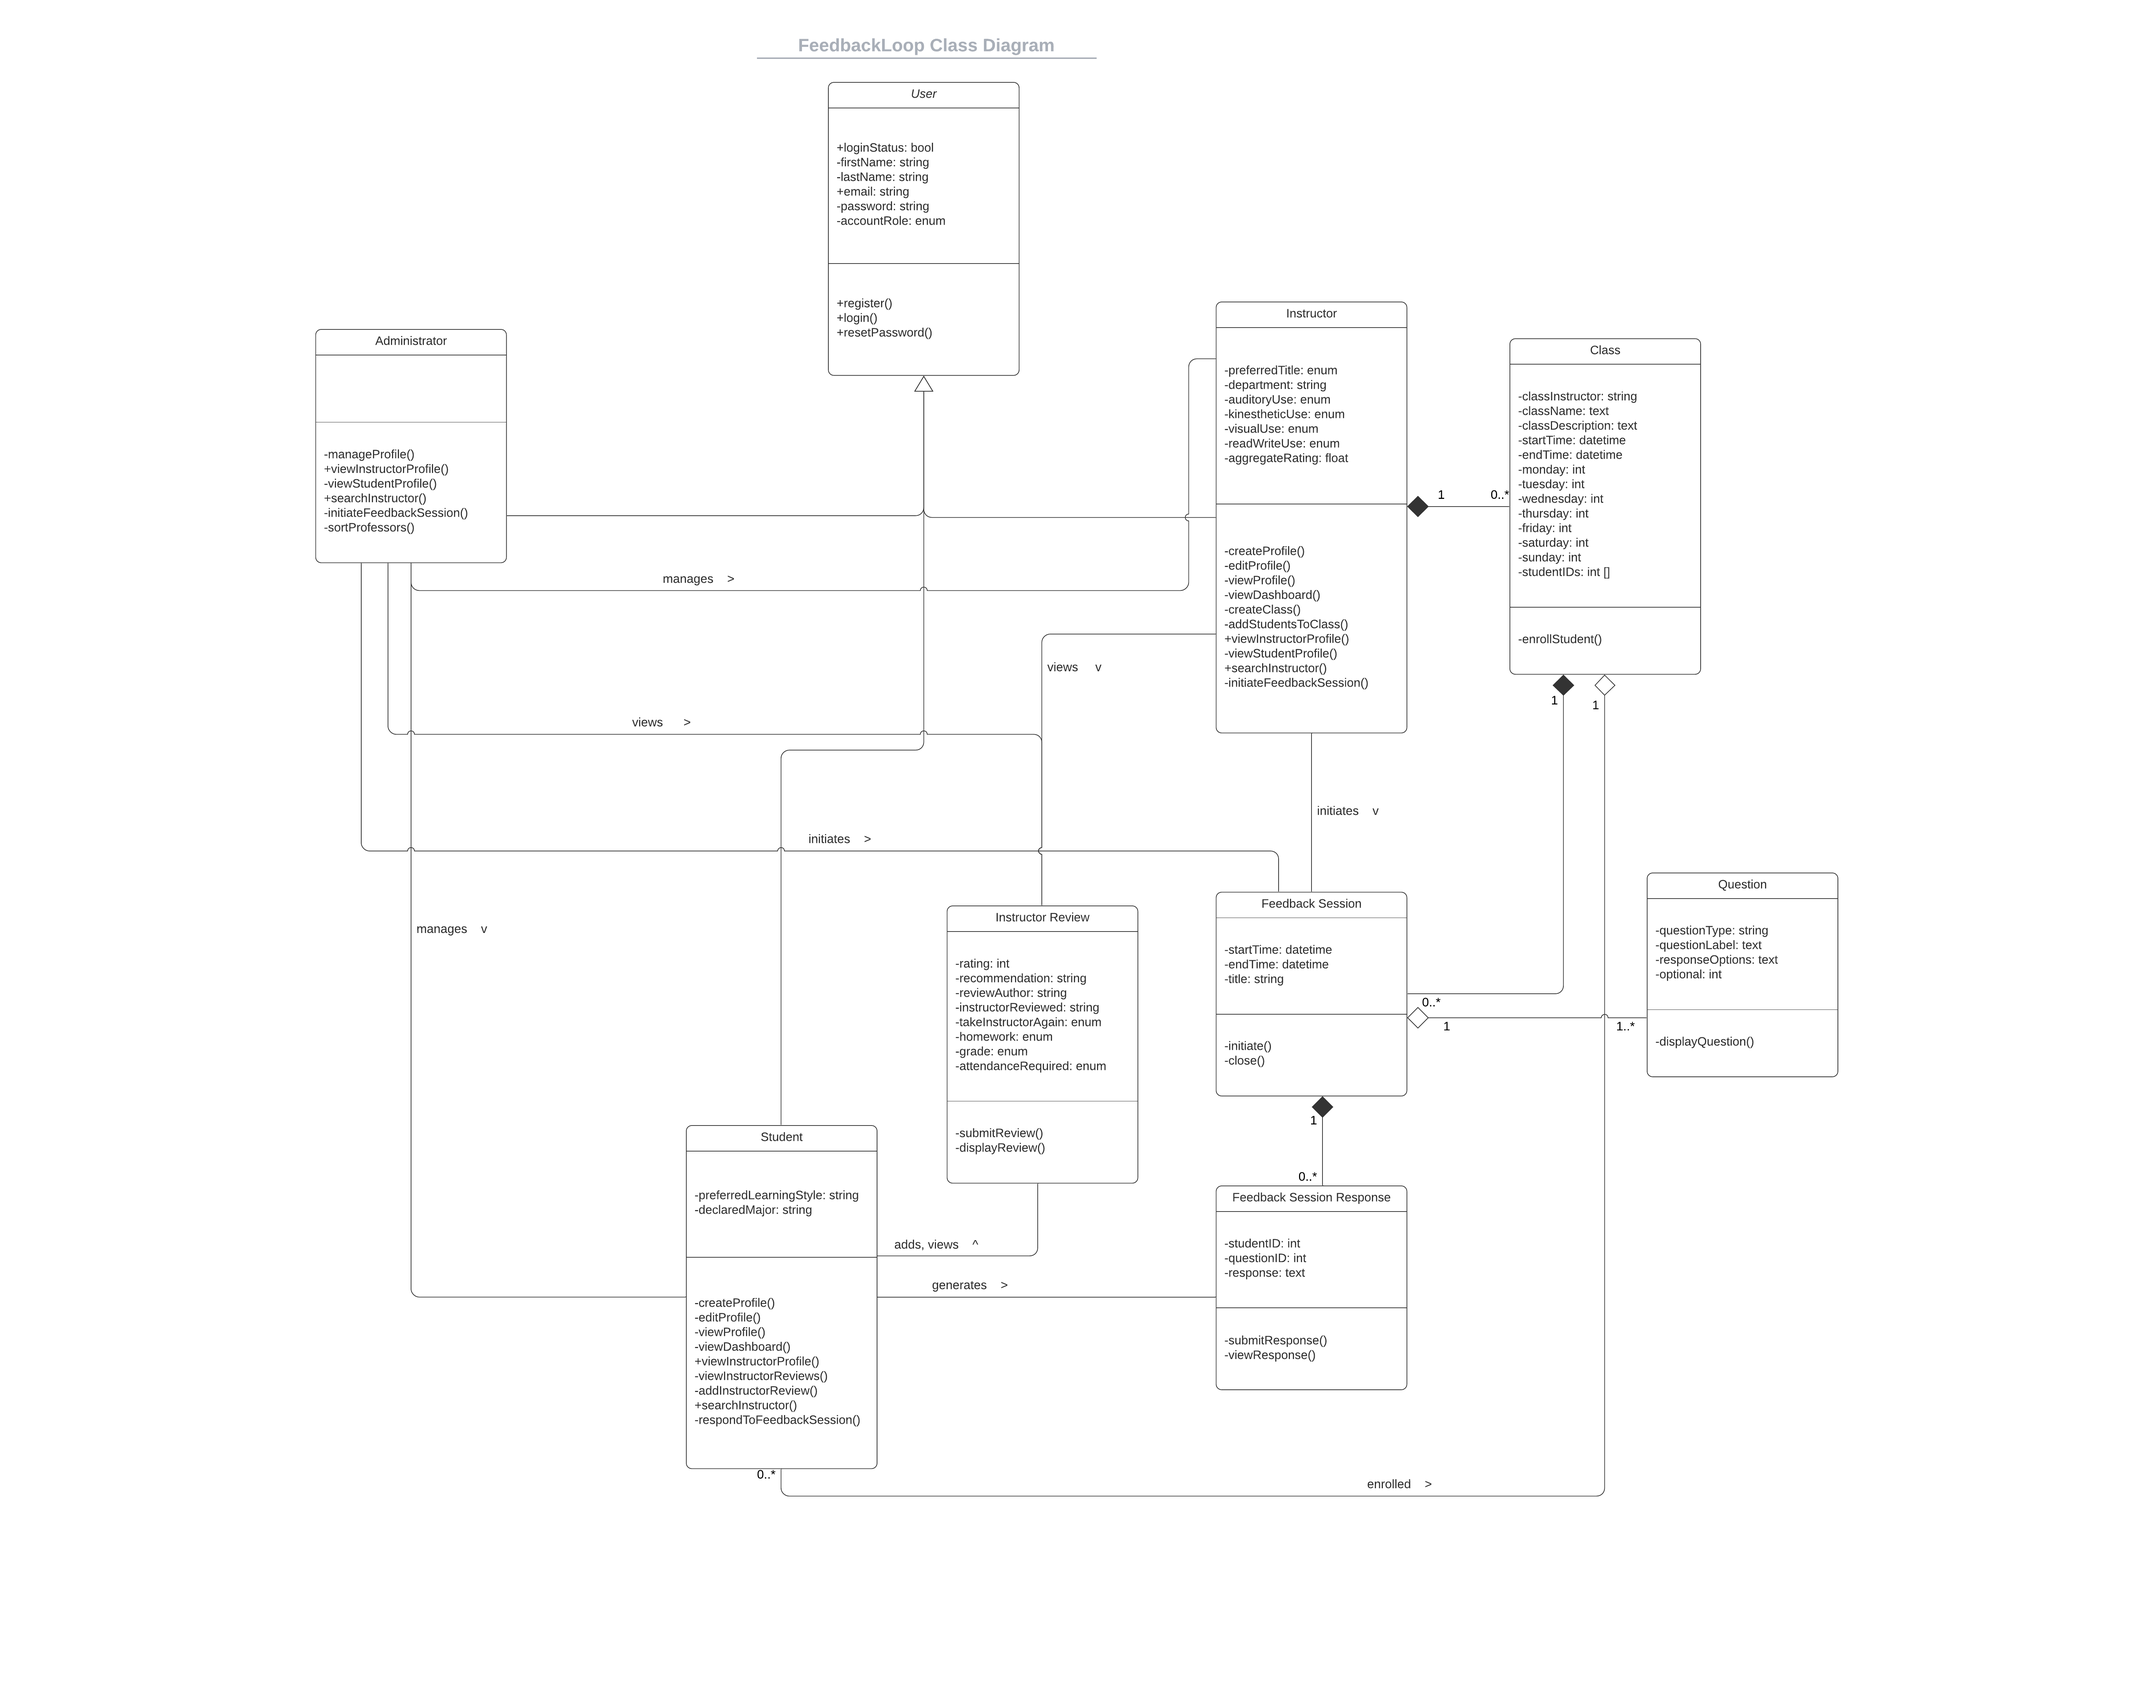
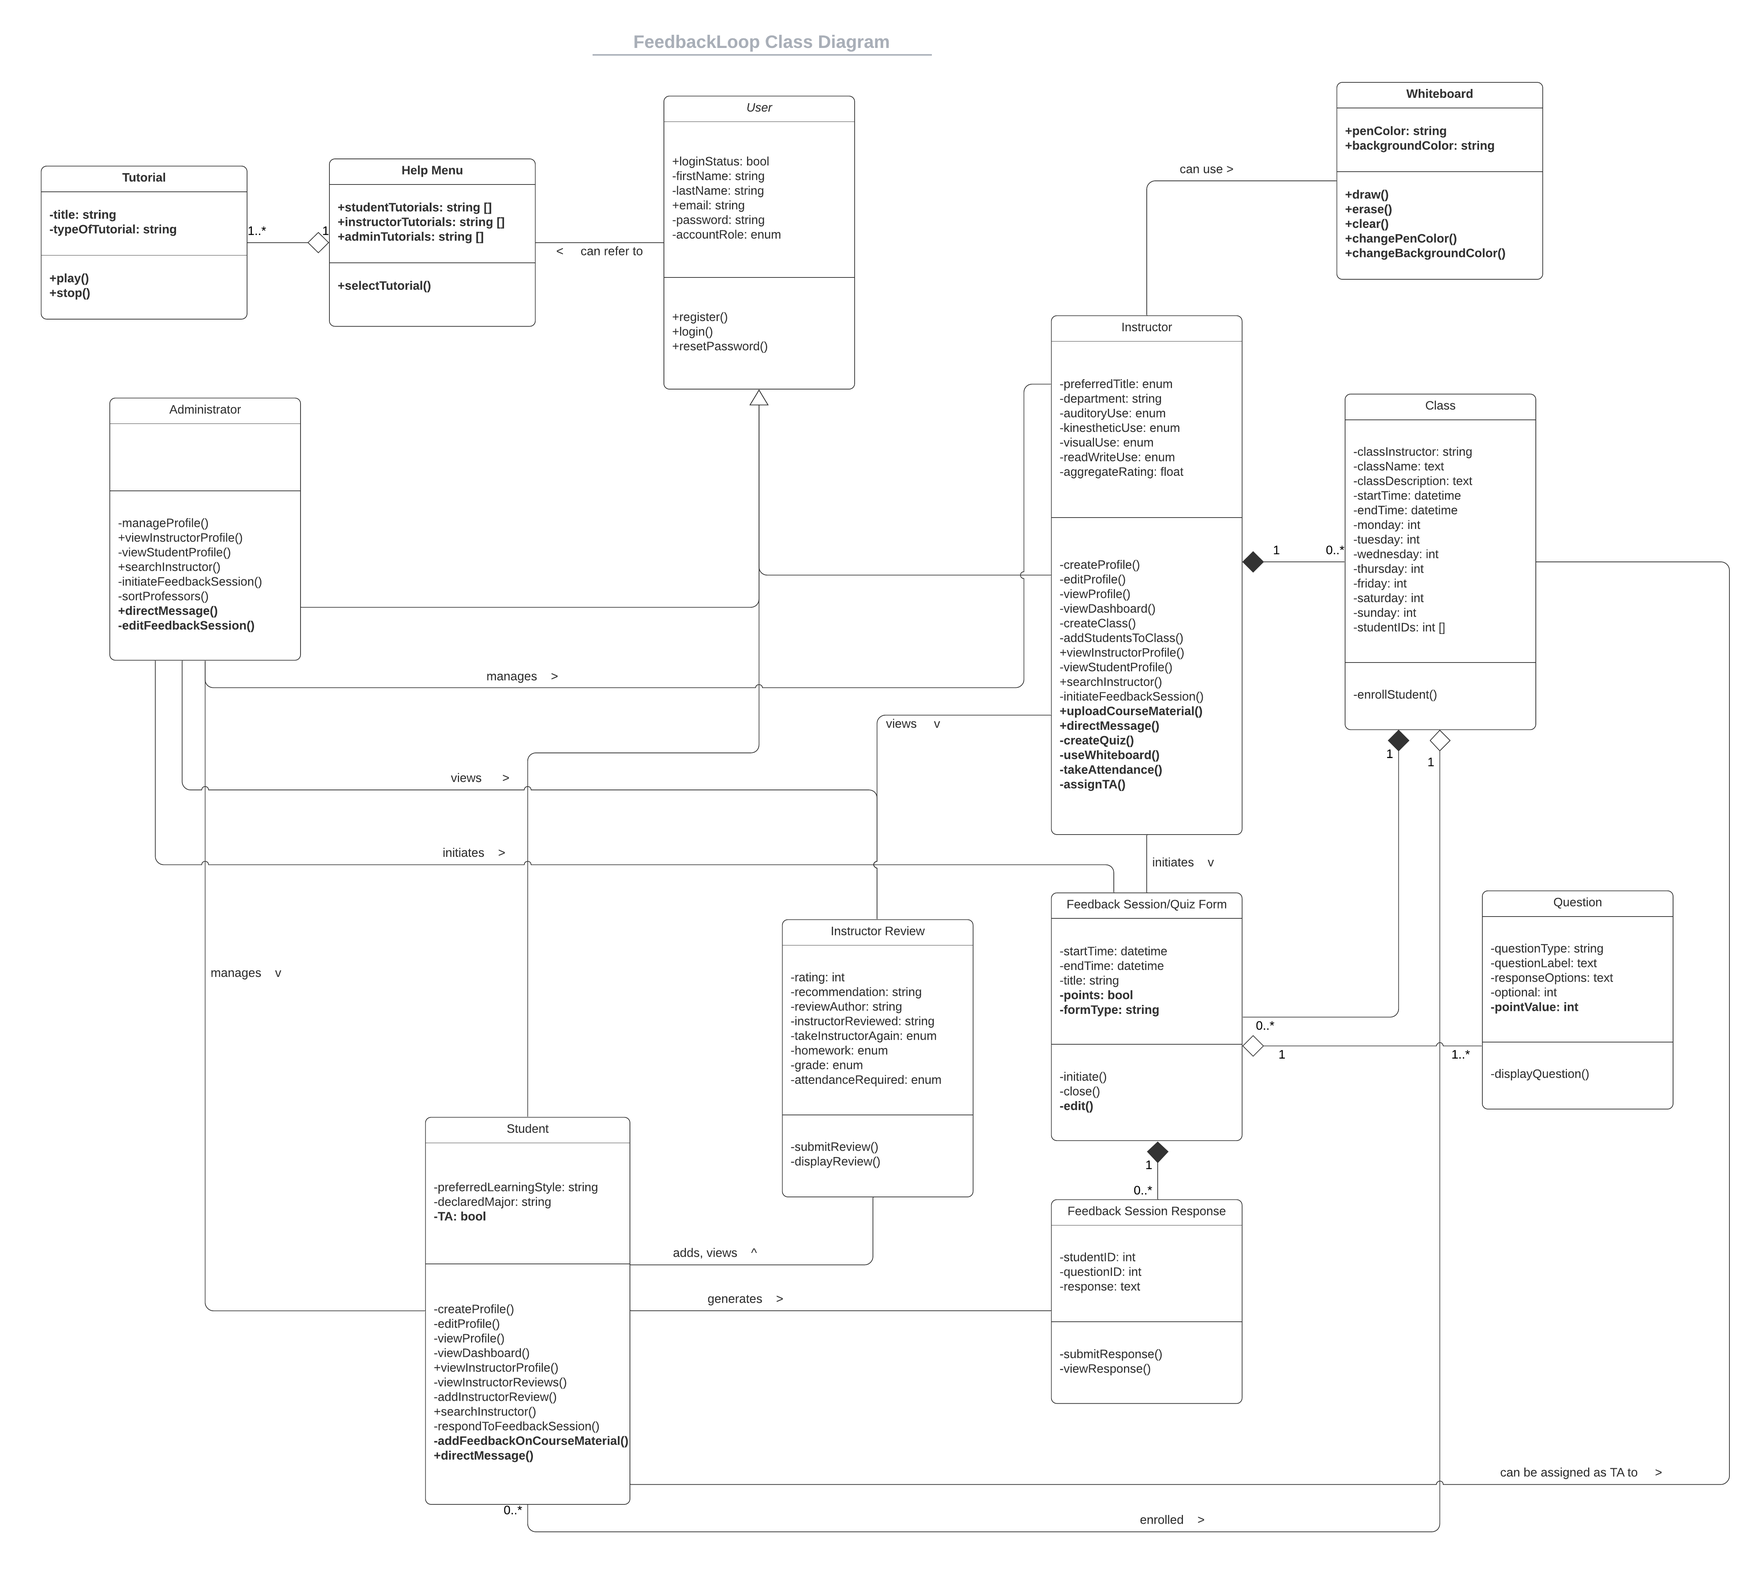
Updated Wiki
added wireframes and updated class diagram

diff --git a/Wiki.md b/Wiki.md
@@ -330,6 +330,27 @@ Admin users have the same functionality as instructor users with some additional
 ## Instructor Feedback Session Results Wireframe
 ![Instructor Feedback Session Results Wireframe](/documentation/Slide11.PNG)
 
+## Instructor Add Class Files Wireframe
+![Instructor Add Class Files Wireframe](/documentation/Slide12.PNG)
+
+## Instructor Whiteboard Wireframe
+![Instructor Whiteboard Wireframe](/documentation/Slide13.PNG)
+
+## Instructor Direct Messaging Wireframe
+![Instructor Direct Messaging Wireframe](/documentation/Slide14.PNG)
+
+## Instructor Help Menu Wireframe
+![Instructor Help Menu Wireframe](/documentation/Slide15.PNG)
+
+## Instructor Resources Page Wireframe
+![Instructor Resources Page Wireframe](/documentation/Slide16.PNG)
+
+## Instructor Course Materials Wireframe
+![Instructor Course Materials Wireframe](/documentation/Slide17.PNG)
+
+## Instructor Review Course Material Wireframe
+![Instructor Review Course Material Wireframe](/documentation/Slide18.PNG)
+
 ### 5.2 Use Case Diagram
 ![Use Case Diagram](/documentation/use_case_diagram.jpeg)
 
